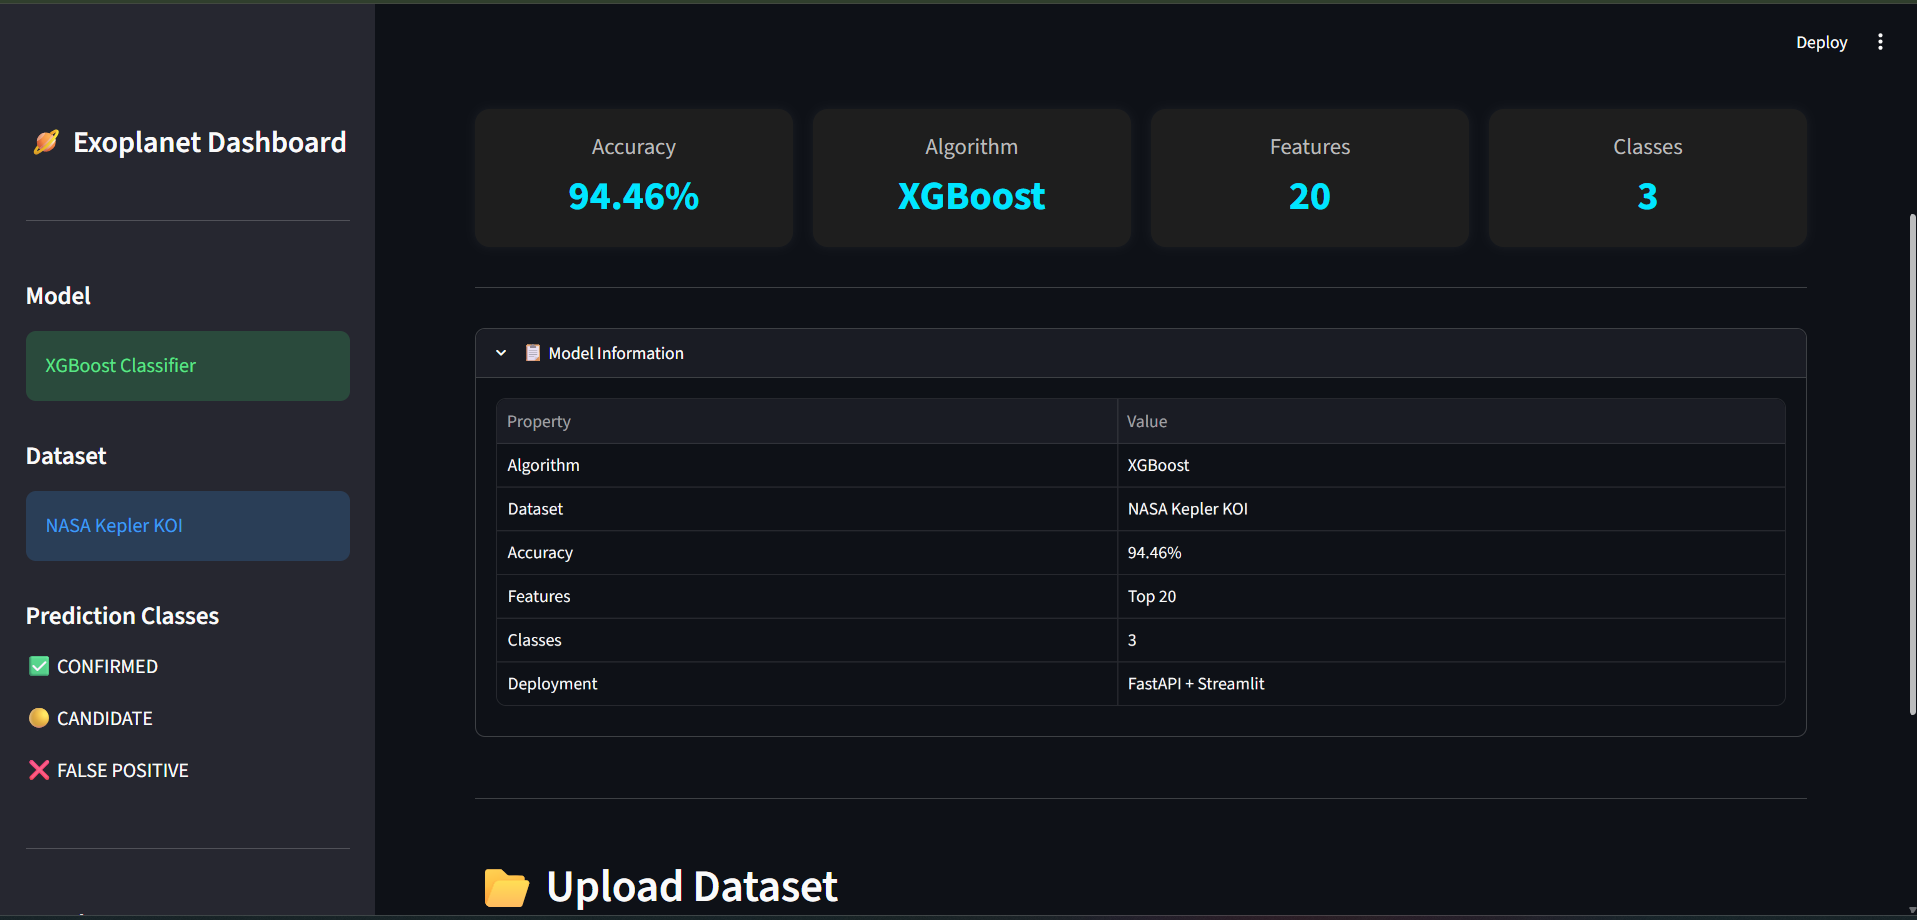
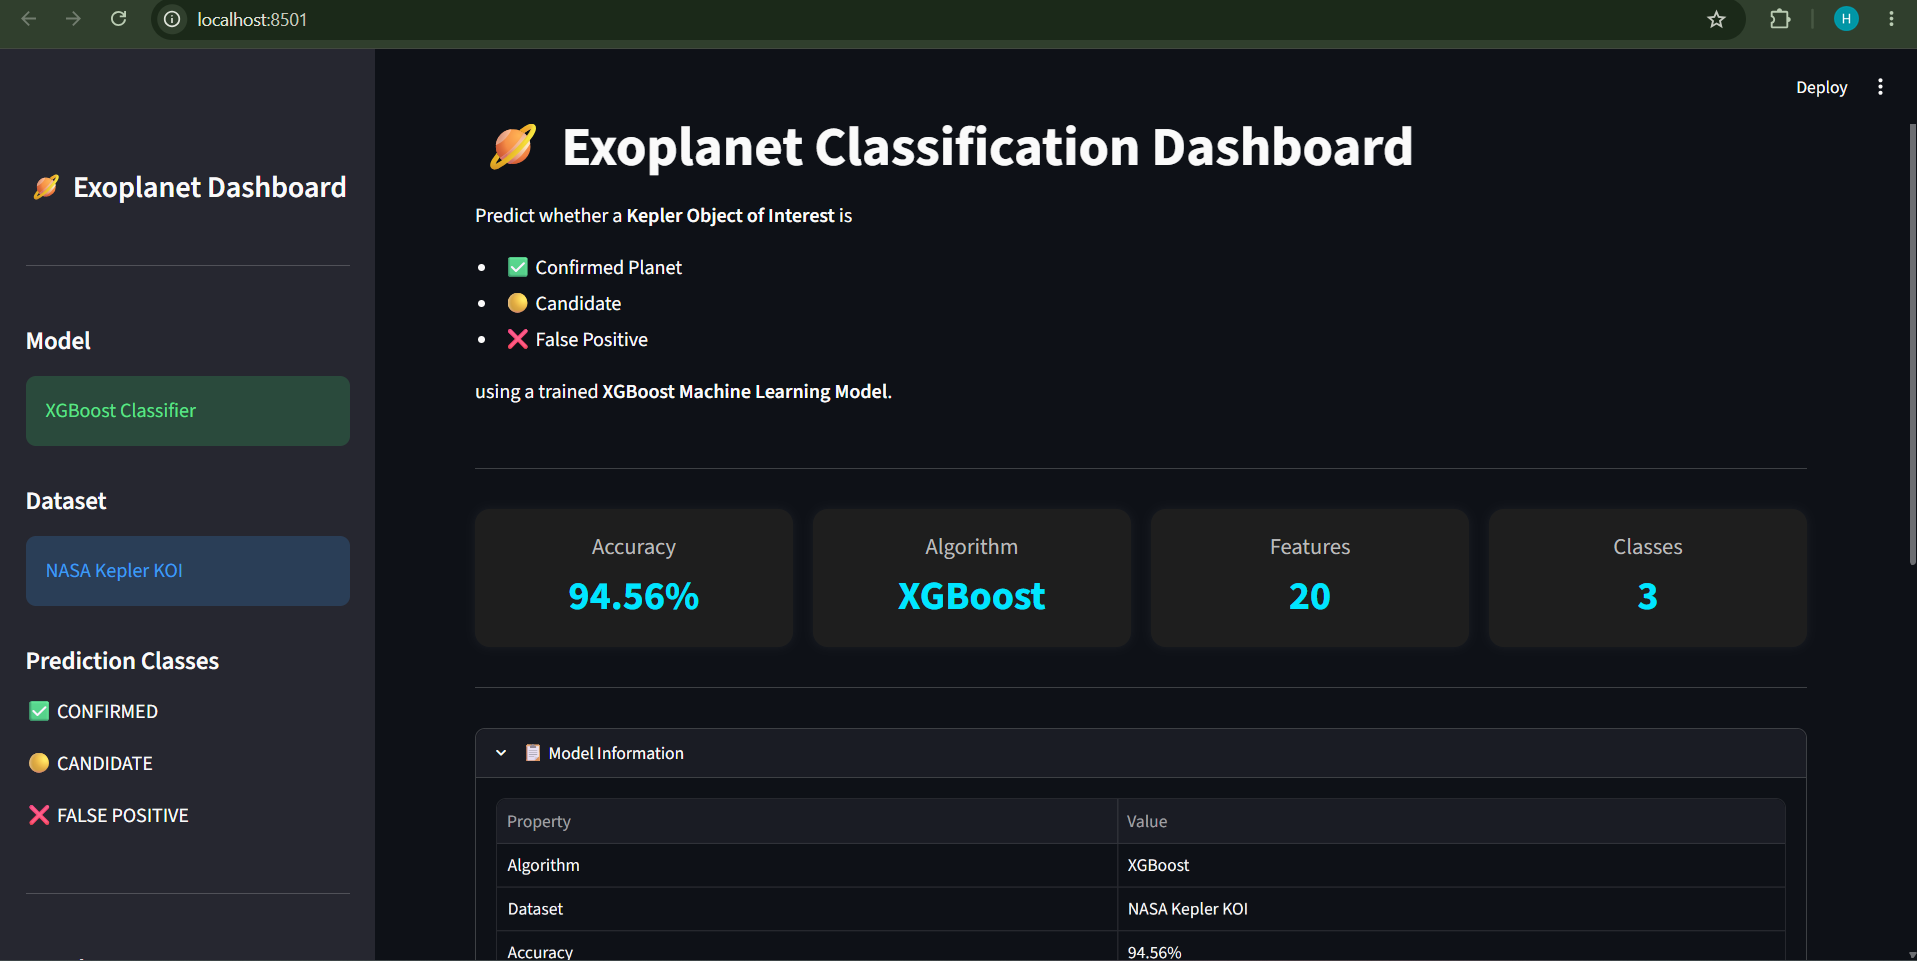
Update dashboard accuracy to 94.56% and refresh home screenshot

diff --git a/streamlit_app.py b/streamlit_app.py
@@ -124,7 +124,7 @@ with col1:
     st.markdown("""
     <div class='metric-card'>
     <div class='metric-title'>Accuracy</div>
-    <div class='metric-value'>94.46%</div>
+    <div class='metric-value'>94.56%</div>
     </div>
     """,unsafe_allow_html=True)
 
@@ -176,7 +176,7 @@ with st.expander("📋 Model Information",expanded=True):
         "Value":[
             "XGBoost",
             "NASA Kepler KOI",
-            "94.46%",
+            "94.56%",
             "Top 20",
             "3",
             "FastAPI + Streamlit"
